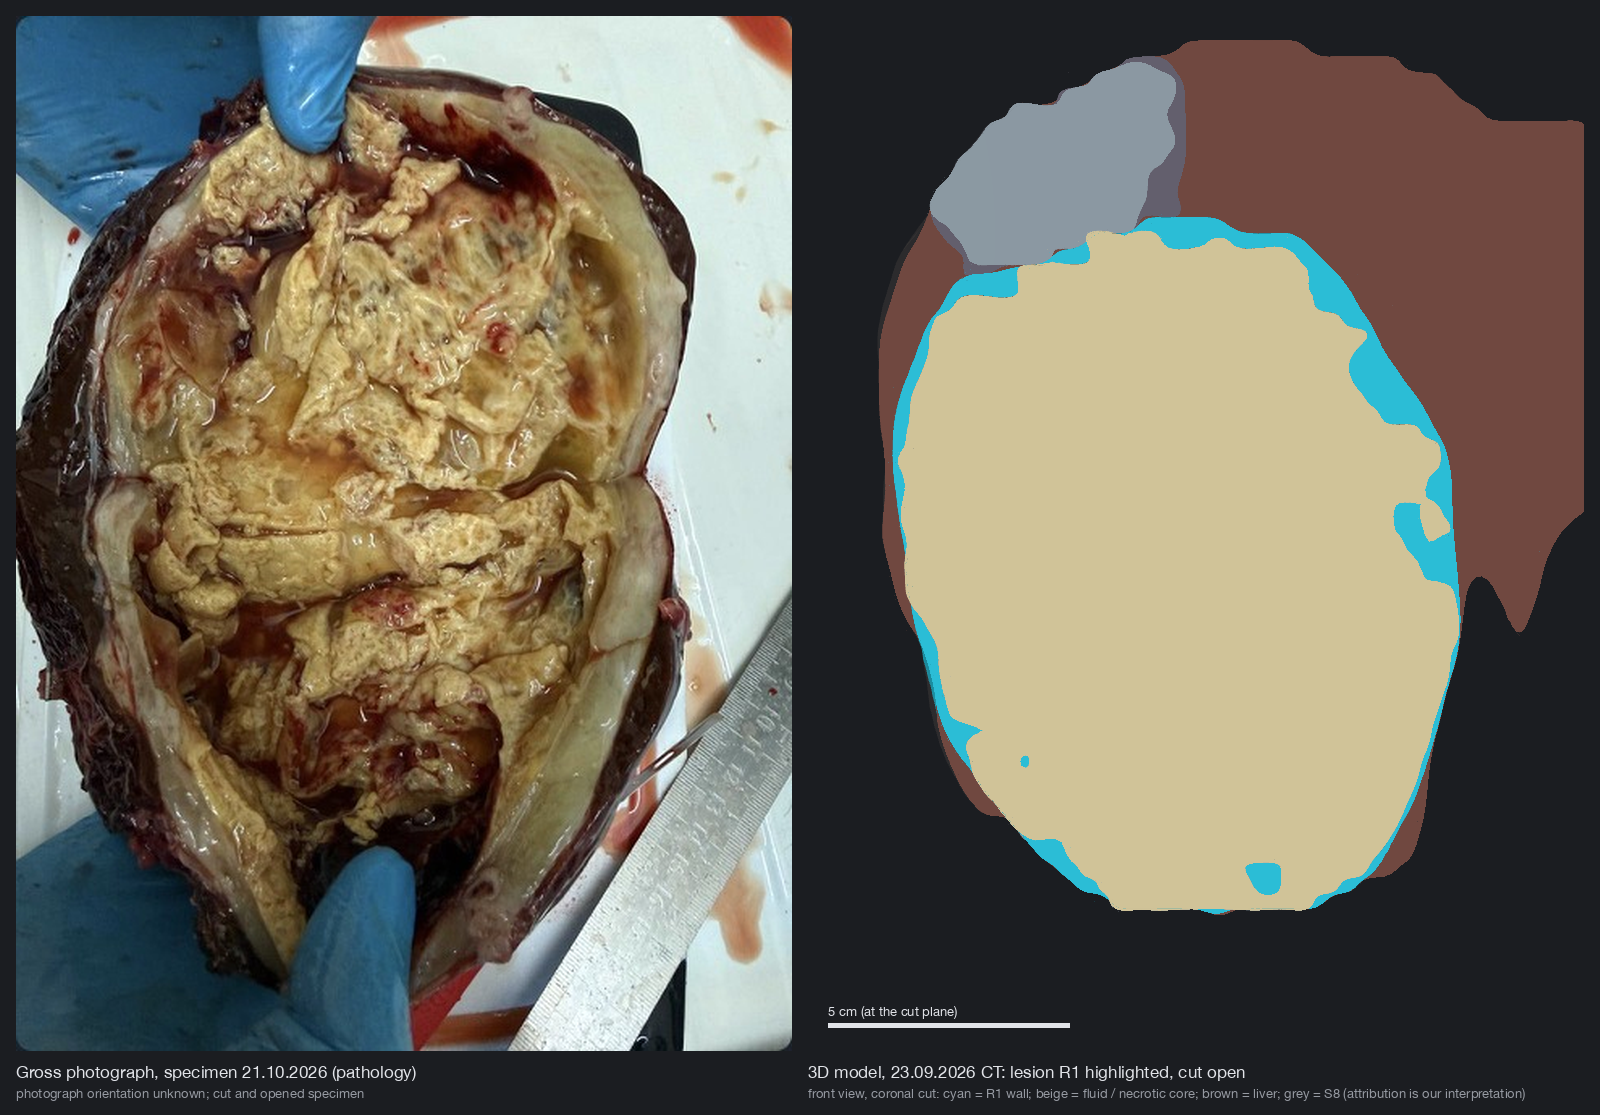
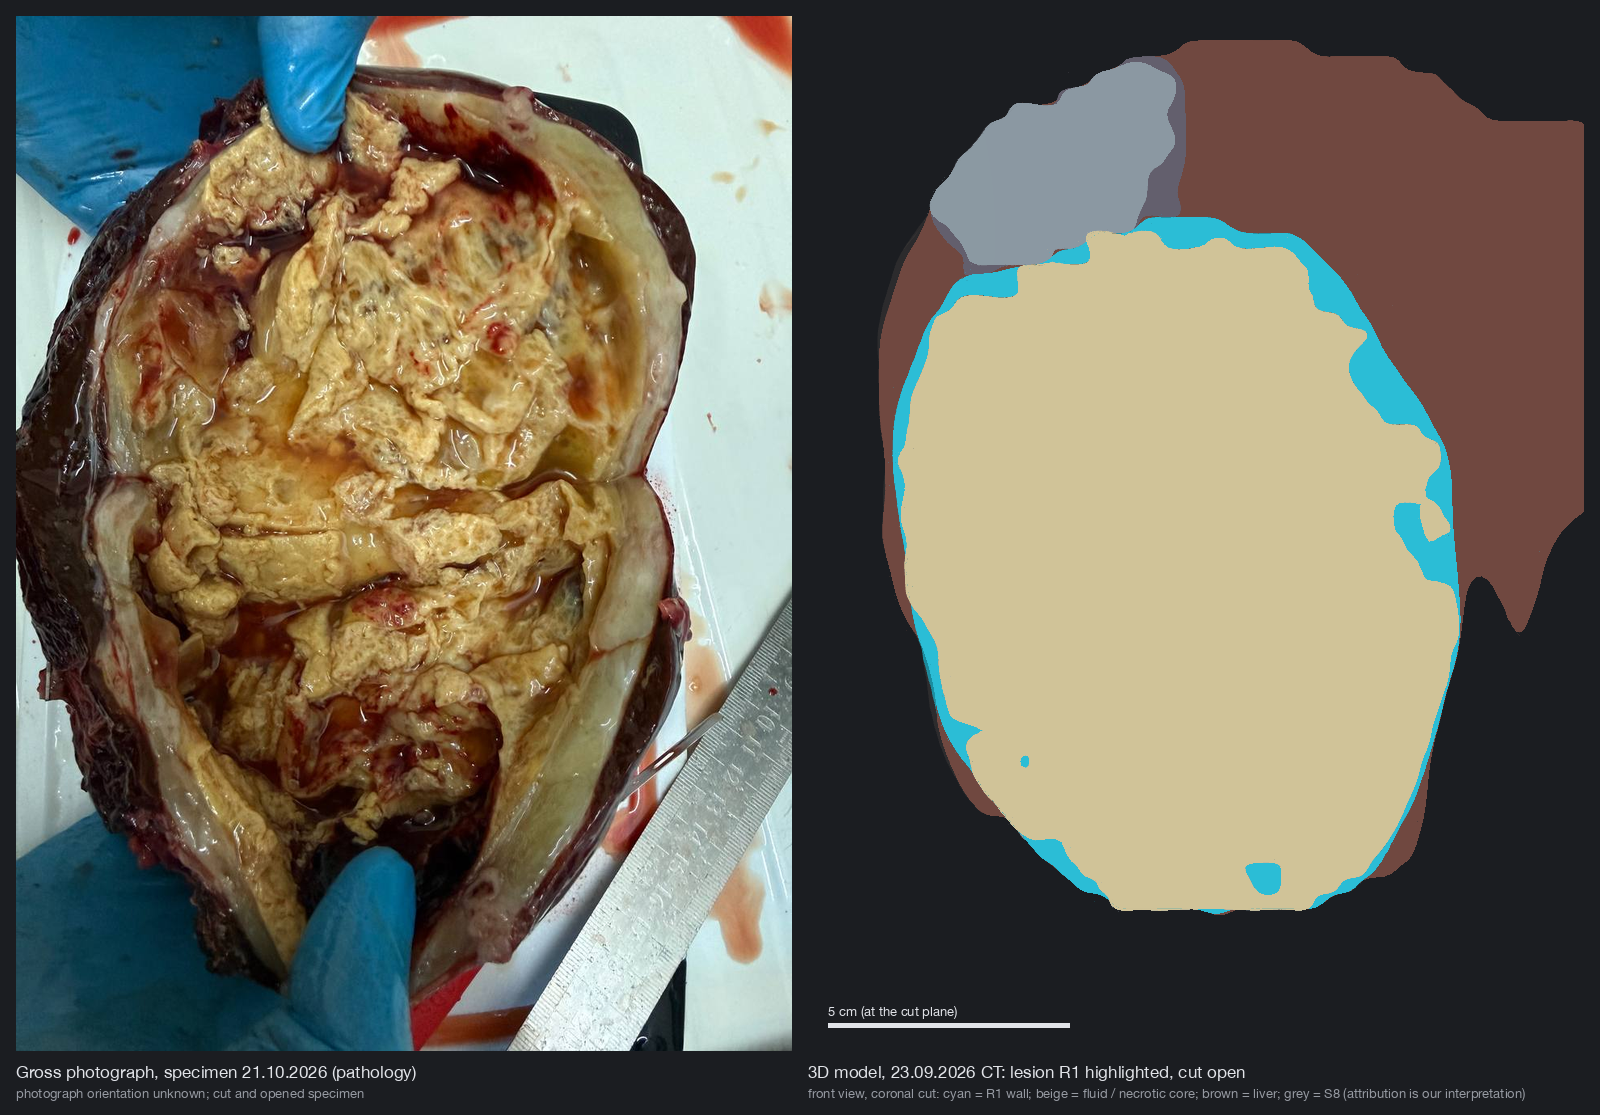
Specimen photo 2 (liver tumour cavity): original full-size file replaces the screenshot crop; pair 2 and previews updated

Changed region(s): [[0.0, 0.0, 0.25, 0.2135], [0.2188, 0.7623, 0.2812, 0.9148], [0.4062, 0.6709, 0.4375, 0.7013]]

diff --git a/specimen-photos-2026-10-21.html b/specimen-photos-2026-10-21.html
@@ -32,11 +32,11 @@ figure{margin:0}.gal{display:grid;grid-template-columns:repeat(auto-fit,minmax(2
 <nav class="top"><a href="index.html">Case summary</a><a href="documents.html">Documents</a><a href="fedorov-2026-10-21.html">21 Oct call summary</a><a href="tumour-board-submission-2026-10-14.html">Tumour board submission</a></nav>
 <main>
 <p class="meta"><b>FOR DOCTORS. Surgical specimen photographs.</b> They show the removed tumour tissue as cut for examination. They are <b>macroscopic images, not a pathology report</b>; histology, immunohistochemistry and genetics of this material are pending.</p>
-<div class="warn"><b>Source and quality.</b> Photographs taken by the pathology department and forwarded through a messenger, which compresses images. Photos 3 to 5 are the files received; photos 1 and 2 were available only as parts of chat screenshots, so they are smaller and lower quality. Originals at full size have been requested from the pathologist (family statement). The captions are the pathologist's own words from the chat, placed above each photo; the descriptions under the photographs are this site's description of what is visible and not a pathology finding.</div>
+<div class="warn"><b>Source and quality.</b> Photographs taken by the pathology department and forwarded through a messenger, which compresses images. Photos 2 to 5 are the files received at full resolution; photo 1 (stomach tumour) was available only as part of a chat screenshot, so it is smaller and lower quality. Originals at full size have been requested from the pathologist (family statement). The captions are the pathologist's own words from the chat, placed above each photo; the descriptions under the photographs are this site's description of what is visible and not a pathology finding.</div>
 <h2>Photographs</h2>
 <div class="gal">
 <figure><a href="assets/specimen_2026-10-21/p1_gastric_tumour_section.jpg"><img src="assets/specimen_2026-10-21/p1_gastric_tumour_section.jpg" alt="Gastric tumour on section, with a ruler" loading="lazy"></a><figcaption><b>1. Stomach tumour on section</b> (caption: "Пухлина шлунку на розрізі"). <span class="bdg v" title="A doctor's informal view: chat, teleconsultation, call; not a signed document">OPINION</span> Cut surface of a pale, lobulated tissue piece with a ruler in the frame. Lower-resolution screenshot crop.</figcaption></figure>
-<figure><a href="assets/specimen_2026-10-21/p2_liver_tumour_cavity.jpg"><img src="assets/specimen_2026-10-21/p2_liver_tumour_cavity.jpg" alt="Liver tumour on section with a cavity containing fluid" loading="lazy"></a><figcaption><b>2. Liver tumour on section</b> (caption: "Пухлина печінки, на розрізі порожнина з рідиною" — liver tumour, a cavity with fluid on section). <span class="bdg v" title="A doctor's informal view: chat, teleconsultation, call; not a signed document">OPINION</span> Opened cavity with a thick wall and yellowish, shaggy, partly blood-stained content; ruler in the frame. Lower-resolution screenshot crop.</figcaption></figure>
+<figure><a href="assets/specimen_2026-10-21/p2_liver_tumour_cavity.jpg"><img src="assets/specimen_2026-10-21/p2_liver_tumour_cavity.jpg" alt="Liver tumour on section with a cavity containing fluid" loading="lazy"></a><figcaption><b>2. Liver tumour on section</b> (caption: "Пухлина печінки, на розрізі порожнина з рідиною" — liver tumour, a cavity with fluid on section). <span class="bdg v" title="A doctor's informal view: chat, teleconsultation, call; not a signed document">OPINION</span> Opened cavity with a thick wall and yellowish, shaggy, partly blood-stained content; ruler in the frame. Original file.</figcaption></figure>
 <figure><a href="assets/specimen_2026-10-21/s1_nodules_a.jpg"><img src="assets/specimen_2026-10-21/s1_nodules_a.jpg" alt="Nodules next to the main tumour" loading="lazy"></a><figcaption><b>3. New growth nodules next to the main tumour</b> (caption: "Поруч зі основною пухлиною нові вузлики росту"). Pale rounded nodules on the liver surface beside the cavity wall; scalpel and ruler in the frame.</figcaption></figure>
 <figure><a href="assets/specimen_2026-10-21/s2_nodules_b.jpg"><img src="assets/specimen_2026-10-21/s2_nodules_b.jpg" alt="Nodules next to the main tumour, second view" loading="lazy"></a><figcaption><b>4. Same group of photographs: second view.</b> Whitish nodules along the wall and the capsule; the opened cavity with yellow-tan content at the top.</figcaption></figure>
 <figure><a href="assets/specimen_2026-10-21/s3_nodules_cavity_wall.jpg"><img src="assets/specimen_2026-10-21/s3_nodules_cavity_wall.jpg" alt="Nodules on the cavity wall, third view" loading="lazy"></a><figcaption><b>5. Same group of photographs: third view.</b> Several whitish nodules on and next to the opened cavity wall, with the yellow-tan content of the cavity below.</figcaption></figure>
